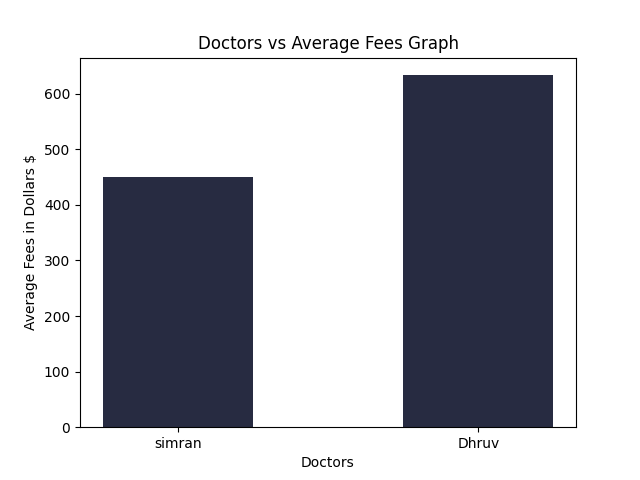
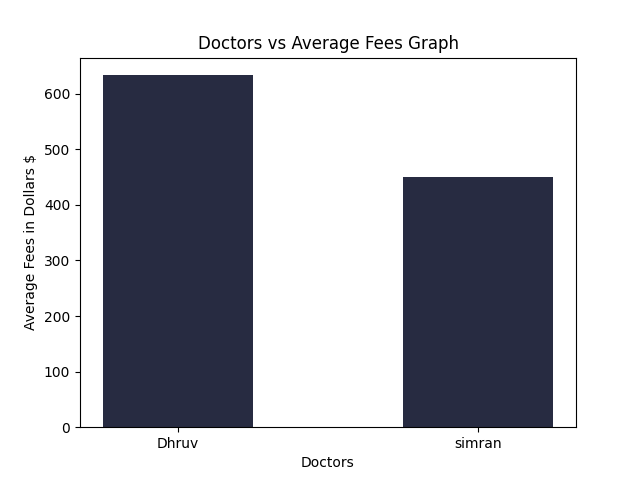
matplotlib merge correction

diff --git a/docbook/doctor/views.py b/docbook/doctor/views.py
@@ -214,8 +214,8 @@ def generateDoctorAppointmentGraph(docUser):
 
     x = np.array(sts_list)
     y = np.array(app_count)
-    
-    plt.locator_params(axis="y", integer=True, tight=True)
+    plt.clf()
+    plt.locator_params(axis="y", tight=True)
     plt.bar(x, y, color='#272b41', width=.5)
     plt.xlabel("Status")
     plt.ylabel("Appointments")
@@ -246,23 +246,24 @@ class GetDoctorListing(View):
 # of all the doctors in a bar graph 
 # Author: Dhruv Sharma
 def generateAverageFeeGraph(request):
-	res = Appointments.objects.filter( Status="Accepted"
+    res = Appointments.objects.filter( Status="Accepted"
 		).values( name=F("DoctorUser__UserID__username")
 		).annotate(avg_fee=Avg('AppointmentFee'))
-
-	xarr, yarr = [],[]
-	for r in res:
-		xarr.append(r['name'])
-		yarr.append(r['avg_fee'])
-  
-	plt.bar(xarr,yarr, color = '#272b41', width=.5)
-	plt.xlabel("Doctors")
-	plt.ylabel("Average Fees in Dollars $")
-	plt.title("Doctors vs Average Fees Graph")
-	
-	filename = 'media/doctors/graphs/avg_fees_'+ request.user.username +'.png'
-	plt.savefig(filename)
-	return filename
+    
+    xarr, yarr = [],[]
+    for r in res:
+        if r['avg_fee']>0:
+            xarr.append(r['name'])
+            yarr.append(r['avg_fee'])
+    plt.clf()
+    plt.bar(xarr,yarr, color = '#272b41', width=.5)
+    plt.xlabel("Doctors")
+    plt.ylabel("Average Fees in Dollars $")
+    plt.title("Doctors vs Average Fees Graph")
+    
+    filename = 'media/doctors/graphs/avg_fees_'+ request.user.username +'.png'
+    plt.savefig(filename)
+    return filename
 
 # Using SciPy to generate some data regarding the 
 # Fee taken by the doctor overtime from the users
